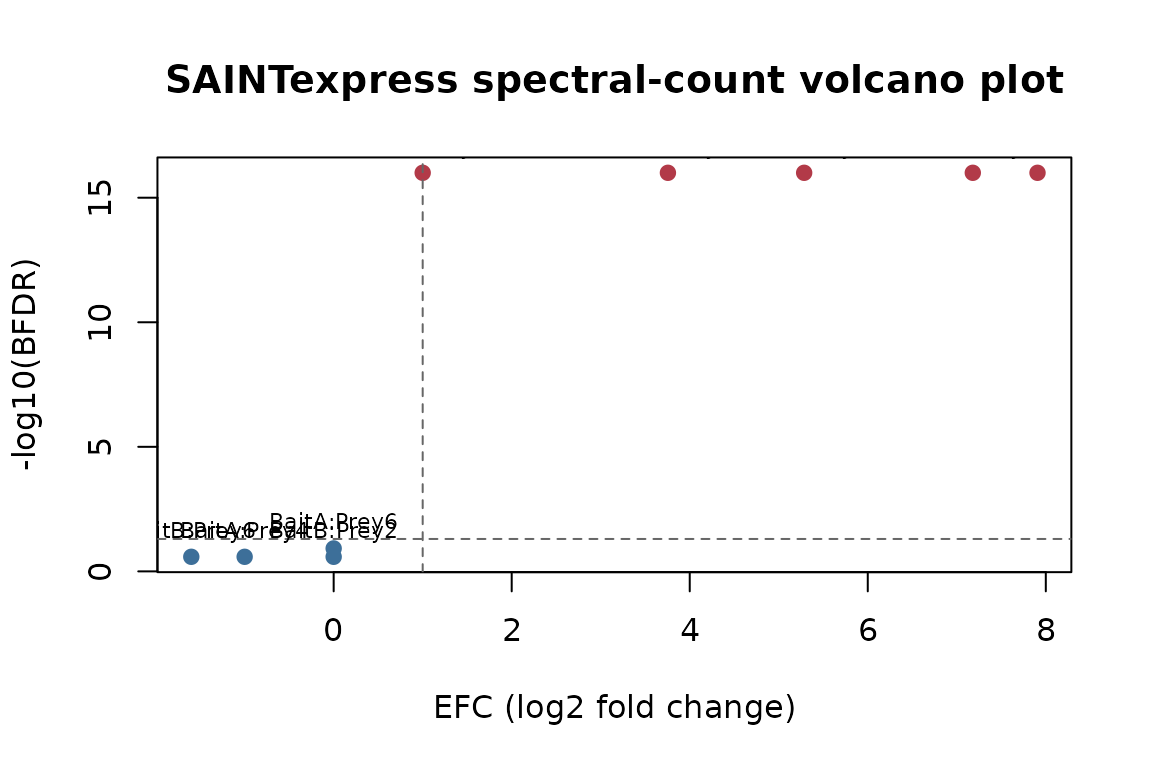
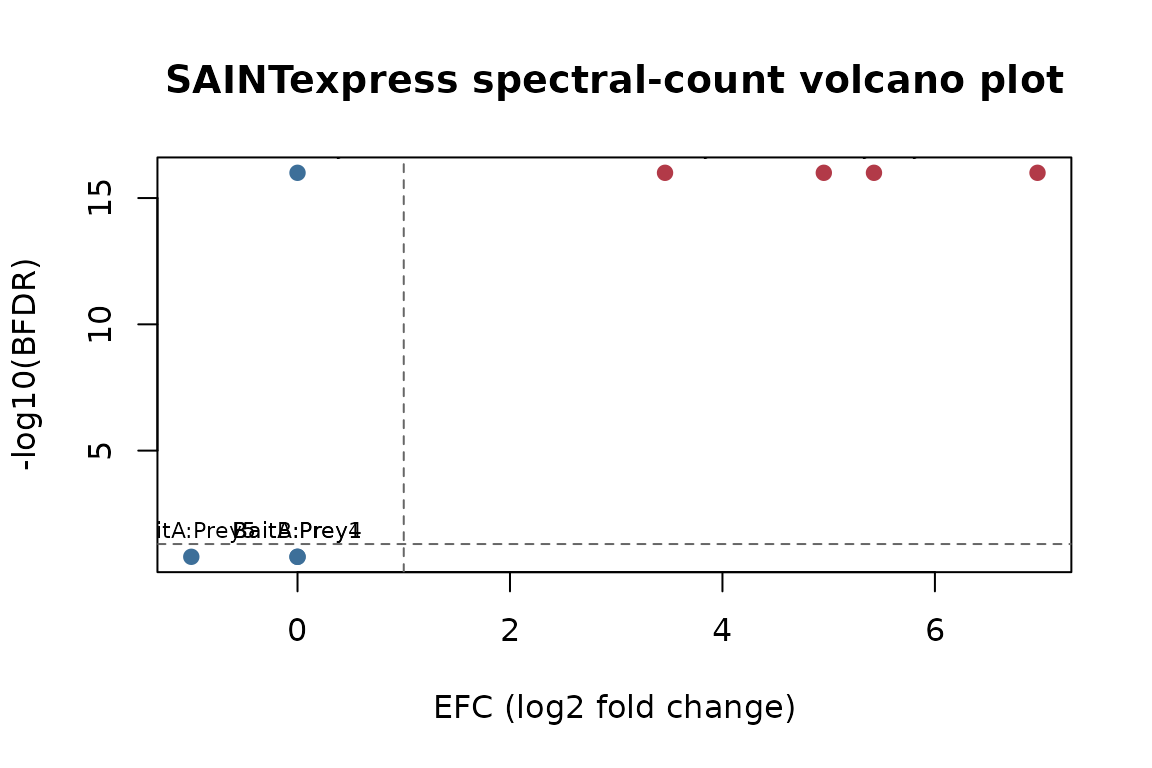
Built site for saintexpress@0.0.1: efdd016

diff --git a/articles/saintexpress.html b/articles/saintexpress.html
@@ -79,32 +79,27 @@ remaining preys are background.</p>
 <span>  <span class="va">ips</span>    <span class="op">&lt;-</span> <span class="fu"><a href="https://rdrr.io/r/base/paste.html" class="external-link">paste0</a></span><span class="op">(</span><span class="st">"IP"</span>, <span class="fu"><a href="https://rdrr.io/r/base/seq.html" class="external-link">seq_along</a></span><span class="op">(</span><span class="va">baits</span><span class="op">)</span><span class="op">)</span></span>
 <span>  <span class="va">cort</span>   <span class="op">&lt;-</span> <span class="fu"><a href="https://rdrr.io/r/base/c.html" class="external-link">c</a></span><span class="op">(</span><span class="st">"T"</span>, <span class="st">"T"</span>, <span class="st">"T"</span>, <span class="st">"T"</span>, <span class="st">"C"</span>, <span class="st">"C"</span><span class="op">)</span></span>
 <span></span>
-<span>  <span class="va">draw</span> <span class="op">&lt;-</span> <span class="kw">function</span><span class="op">(</span><span class="va">bait</span>, <span class="va">prey</span><span class="op">)</span> <span class="op">{</span></span>
-<span>    <span class="kw">if</span> <span class="op">(</span><span class="va">bait</span> <span class="op"><a href="https://rdrr.io/r/base/match.html" class="external-link">%in%</a></span> <span class="fu"><a href="https://rdrr.io/r/base/c.html" class="external-link">c</a></span><span class="op">(</span><span class="st">"Ctrl1"</span>, <span class="st">"Ctrl2"</span><span class="op">)</span><span class="op">)</span> <span class="op">{</span></span>
-<span>      <span class="kw">if</span> <span class="op">(</span><span class="va">mode</span> <span class="op">==</span> <span class="st">"spc"</span><span class="op">)</span> <span class="fu">stats</span><span class="fu">::</span><span class="fu"><a href="https://rdrr.io/r/stats/Poisson.html" class="external-link">rpois</a></span><span class="op">(</span><span class="fl">1</span>, <span class="fl">0.5</span><span class="op">)</span> <span class="kw">else</span> <span class="fu">stats</span><span class="fu">::</span><span class="fu"><a href="https://rdrr.io/r/stats/Exponential.html" class="external-link">rexp</a></span><span class="op">(</span><span class="fl">1</span>, <span class="fl">1</span> <span class="op">/</span> <span class="fl">1e4</span><span class="op">)</span></span>
-<span>    <span class="op">}</span> <span class="kw">else</span> <span class="kw">if</span> <span class="op">(</span><span class="va">bait</span> <span class="op">==</span> <span class="st">"BaitA"</span> <span class="op">&amp;&amp;</span> <span class="va">prey</span> <span class="op"><a href="https://rdrr.io/r/base/match.html" class="external-link">%in%</a></span> <span class="fu"><a href="https://rdrr.io/r/base/c.html" class="external-link">c</a></span><span class="op">(</span><span class="st">"Prey1"</span>, <span class="st">"Prey2"</span><span class="op">)</span><span class="op">)</span> <span class="op">{</span></span>
-<span>      <span class="kw">if</span> <span class="op">(</span><span class="va">mode</span> <span class="op">==</span> <span class="st">"spc"</span><span class="op">)</span> <span class="fu">stats</span><span class="fu">::</span><span class="fu"><a href="https://rdrr.io/r/stats/Poisson.html" class="external-link">rpois</a></span><span class="op">(</span><span class="fl">1</span>, <span class="fl">20</span><span class="op">)</span> <span class="kw">else</span> <span class="fu">stats</span><span class="fu">::</span><span class="fu"><a href="https://rdrr.io/r/stats/Exponential.html" class="external-link">rexp</a></span><span class="op">(</span><span class="fl">1</span>, <span class="fl">1</span> <span class="op">/</span> <span class="fl">1e7</span><span class="op">)</span></span>
-<span>    <span class="op">}</span> <span class="kw">else</span> <span class="kw">if</span> <span class="op">(</span><span class="va">bait</span> <span class="op">==</span> <span class="st">"BaitB"</span> <span class="op">&amp;&amp;</span> <span class="va">prey</span> <span class="op"><a href="https://rdrr.io/r/base/match.html" class="external-link">%in%</a></span> <span class="fu"><a href="https://rdrr.io/r/base/c.html" class="external-link">c</a></span><span class="op">(</span><span class="st">"Prey3"</span>, <span class="st">"Prey4"</span><span class="op">)</span><span class="op">)</span> <span class="op">{</span></span>
-<span>      <span class="kw">if</span> <span class="op">(</span><span class="va">mode</span> <span class="op">==</span> <span class="st">"spc"</span><span class="op">)</span> <span class="fu">stats</span><span class="fu">::</span><span class="fu"><a href="https://rdrr.io/r/stats/Poisson.html" class="external-link">rpois</a></span><span class="op">(</span><span class="fl">1</span>, <span class="fl">15</span><span class="op">)</span> <span class="kw">else</span> <span class="fu">stats</span><span class="fu">::</span><span class="fu"><a href="https://rdrr.io/r/stats/Exponential.html" class="external-link">rexp</a></span><span class="op">(</span><span class="fl">1</span>, <span class="fl">1</span> <span class="op">/</span> <span class="fl">5e6</span><span class="op">)</span></span>
-<span>    <span class="op">}</span> <span class="kw">else</span> <span class="op">{</span></span>
-<span>      <span class="kw">if</span> <span class="op">(</span><span class="va">mode</span> <span class="op">==</span> <span class="st">"spc"</span><span class="op">)</span> <span class="fu">stats</span><span class="fu">::</span><span class="fu"><a href="https://rdrr.io/r/stats/Poisson.html" class="external-link">rpois</a></span><span class="op">(</span><span class="fl">1</span>, <span class="fl">0.5</span><span class="op">)</span> <span class="kw">else</span> <span class="fu">stats</span><span class="fu">::</span><span class="fu"><a href="https://rdrr.io/r/stats/Exponential.html" class="external-link">rexp</a></span><span class="op">(</span><span class="fl">1</span>, <span class="fl">1</span> <span class="op">/</span> <span class="fl">1e4</span><span class="op">)</span></span>
-<span>    <span class="op">}</span></span>
+<span>  <span class="co"># One row per IP x prey; recover the bait for each IP.</span></span>
+<span>  <span class="va">grid</span> <span class="op">&lt;-</span> <span class="fu"><a href="https://rdrr.io/r/base/expand.grid.html" class="external-link">expand.grid</a></span><span class="op">(</span>ipId <span class="op">=</span> <span class="va">ips</span>, preyId <span class="op">=</span> <span class="va">preys</span>, stringsAsFactors <span class="op">=</span> <span class="cn">FALSE</span><span class="op">)</span></span>
+<span>  <span class="va">grid</span><span class="op">$</span><span class="va">baitId</span> <span class="op">&lt;-</span> <span class="va">baits</span><span class="op">[</span><span class="fu"><a href="https://rdrr.io/r/base/match.html" class="external-link">match</a></span><span class="op">(</span><span class="va">grid</span><span class="op">$</span><span class="va">ipId</span>, <span class="va">ips</span><span class="op">)</span><span class="op">]</span></span>
+<span></span>
+<span>  <span class="co"># A prey is enriched ("signal") only for its true bait; everything else is background.</span></span>
+<span>  <span class="va">signal</span> <span class="op">&lt;-</span> <span class="op">(</span><span class="va">grid</span><span class="op">$</span><span class="va">baitId</span> <span class="op">==</span> <span class="st">"BaitA"</span> <span class="op">&amp;</span> <span class="va">grid</span><span class="op">$</span><span class="va">preyId</span> <span class="op"><a href="https://rdrr.io/r/base/match.html" class="external-link">%in%</a></span> <span class="fu"><a href="https://rdrr.io/r/base/c.html" class="external-link">c</a></span><span class="op">(</span><span class="st">"Prey1"</span>, <span class="st">"Prey2"</span><span class="op">)</span><span class="op">)</span> <span class="op">|</span></span>
+<span>            <span class="op">(</span><span class="va">grid</span><span class="op">$</span><span class="va">baitId</span> <span class="op">==</span> <span class="st">"BaitB"</span> <span class="op">&amp;</span> <span class="va">grid</span><span class="op">$</span><span class="va">preyId</span> <span class="op"><a href="https://rdrr.io/r/base/match.html" class="external-link">%in%</a></span> <span class="fu"><a href="https://rdrr.io/r/base/c.html" class="external-link">c</a></span><span class="op">(</span><span class="st">"Prey3"</span>, <span class="st">"Prey4"</span><span class="op">)</span><span class="op">)</span></span>
+<span></span>
+<span>  <span class="co"># Draw every quantity in one vectorized call.</span></span>
+<span>  <span class="kw">if</span> <span class="op">(</span><span class="va">mode</span> <span class="op">==</span> <span class="st">"spc"</span><span class="op">)</span> <span class="op">{</span></span>
+<span>    <span class="va">lambda</span> <span class="op">&lt;-</span> <span class="fu"><a href="https://rdrr.io/r/base/ifelse.html" class="external-link">ifelse</a></span><span class="op">(</span><span class="va">signal</span>, <span class="fu"><a href="https://rdrr.io/r/base/ifelse.html" class="external-link">ifelse</a></span><span class="op">(</span><span class="va">grid</span><span class="op">$</span><span class="va">baitId</span> <span class="op">==</span> <span class="st">"BaitA"</span>, <span class="fl">20</span>, <span class="fl">15</span><span class="op">)</span>, <span class="fl">0.5</span><span class="op">)</span></span>
+<span>    <span class="va">grid</span><span class="op">$</span><span class="va">quant</span> <span class="op">&lt;-</span> <span class="fu">stats</span><span class="fu">::</span><span class="fu"><a href="https://rdrr.io/r/stats/Poisson.html" class="external-link">rpois</a></span><span class="op">(</span><span class="fu"><a href="https://rdrr.io/r/base/nrow.html" class="external-link">nrow</a></span><span class="op">(</span><span class="va">grid</span><span class="op">)</span>, <span class="va">lambda</span><span class="op">)</span></span>
+<span>  <span class="op">}</span> <span class="kw">else</span> <span class="op">{</span></span>
+<span>    <span class="va">mu</span> <span class="op">&lt;-</span> <span class="fu"><a href="https://rdrr.io/r/base/ifelse.html" class="external-link">ifelse</a></span><span class="op">(</span><span class="va">signal</span>, <span class="fu"><a href="https://rdrr.io/r/base/ifelse.html" class="external-link">ifelse</a></span><span class="op">(</span><span class="va">grid</span><span class="op">$</span><span class="va">baitId</span> <span class="op">==</span> <span class="st">"BaitA"</span>, <span class="fl">1e7</span>, <span class="fl">5e6</span><span class="op">)</span>, <span class="fl">1e4</span><span class="op">)</span></span>
+<span>    <span class="va">grid</span><span class="op">$</span><span class="va">quant</span> <span class="op">&lt;-</span> <span class="fu">stats</span><span class="fu">::</span><span class="fu"><a href="https://rdrr.io/r/stats/Exponential.html" class="external-link">rexp</a></span><span class="op">(</span><span class="fu"><a href="https://rdrr.io/r/base/nrow.html" class="external-link">nrow</a></span><span class="op">(</span><span class="va">grid</span><span class="op">)</span>, <span class="fl">1</span> <span class="op">/</span> <span class="va">mu</span><span class="op">)</span></span>
 <span>  <span class="op">}</span></span>
 <span></span>
-<span>  <span class="va">rows</span> <span class="op">&lt;-</span> <span class="fu"><a href="https://rdrr.io/r/base/list.html" class="external-link">list</a></span><span class="op">(</span><span class="op">)</span></span>
-<span>  <span class="kw">for</span> <span class="op">(</span><span class="va">i</span> <span class="kw">in</span> <span class="fu"><a href="https://rdrr.io/r/base/seq.html" class="external-link">seq_along</a></span><span class="op">(</span><span class="va">baits</span><span class="op">)</span><span class="op">)</span> <span class="op">{</span></span>
-<span>    <span class="kw">for</span> <span class="op">(</span><span class="va">p</span> <span class="kw">in</span> <span class="va">preys</span><span class="op">)</span> <span class="op">{</span></span>
-<span>      <span class="va">q</span> <span class="op">&lt;-</span> <span class="fu">draw</span><span class="op">(</span><span class="va">baits</span><span class="op">[</span><span class="va">i</span><span class="op">]</span>, <span class="va">p</span><span class="op">)</span></span>
-<span>      <span class="kw">if</span> <span class="op">(</span><span class="va">q</span> <span class="op">&gt;</span> <span class="fl">0</span><span class="op">)</span> <span class="op">{</span></span>
-<span>        <span class="va">rows</span><span class="op">[[</span><span class="fu"><a href="https://rdrr.io/r/base/length.html" class="external-link">length</a></span><span class="op">(</span><span class="va">rows</span><span class="op">)</span> <span class="op">+</span> <span class="fl">1</span><span class="op">]</span><span class="op">]</span> <span class="op">&lt;-</span> <span class="fu"><a href="https://rdrr.io/r/base/data.frame.html" class="external-link">data.frame</a></span><span class="op">(</span></span>
-<span>          ipId <span class="op">=</span> <span class="va">ips</span><span class="op">[</span><span class="va">i</span><span class="op">]</span>, baitId <span class="op">=</span> <span class="va">baits</span><span class="op">[</span><span class="va">i</span><span class="op">]</span>, preyId <span class="op">=</span> <span class="va">p</span>, quant <span class="op">=</span> <span class="va">q</span>,</span>
-<span>          stringsAsFactors <span class="op">=</span> <span class="cn">FALSE</span></span>
-<span>        <span class="op">)</span></span>
-<span>      <span class="op">}</span></span>
-<span>    <span class="op">}</span></span>
-<span>  <span class="op">}</span></span>
+<span>  <span class="va">inter</span> <span class="op">&lt;-</span> <span class="va">grid</span><span class="op">[</span><span class="va">grid</span><span class="op">$</span><span class="va">quant</span> <span class="op">&gt;</span> <span class="fl">0</span>, <span class="fu"><a href="https://rdrr.io/r/base/c.html" class="external-link">c</a></span><span class="op">(</span><span class="st">"ipId"</span>, <span class="st">"baitId"</span>, <span class="st">"preyId"</span>, <span class="st">"quant"</span><span class="op">)</span><span class="op">]</span></span>
+<span>  <span class="fu"><a href="https://rdrr.io/r/base/colnames.html" class="external-link">rownames</a></span><span class="op">(</span><span class="va">inter</span><span class="op">)</span> <span class="op">&lt;-</span> <span class="cn">NULL</span></span>
 <span>  <span class="fu"><a href="https://rdrr.io/r/base/list.html" class="external-link">list</a></span><span class="op">(</span></span>
-<span>    inter <span class="op">=</span> <span class="fu"><a href="https://rdrr.io/r/base/do.call.html" class="external-link">do.call</a></span><span class="op">(</span><span class="va">rbind</span>, <span class="va">rows</span><span class="op">)</span>,</span>
+<span>    inter <span class="op">=</span> <span class="va">inter</span>,</span>
 <span>    prey  <span class="op">=</span> <span class="fu"><a href="https://rdrr.io/r/base/data.frame.html" class="external-link">data.frame</a></span><span class="op">(</span>preyId <span class="op">=</span> <span class="va">preys</span>, preyLength <span class="op">=</span> <span class="fl">500L</span>, preyGeneId <span class="op">=</span> <span class="va">preys</span>,</span>
 <span>                       stringsAsFactors <span class="op">=</span> <span class="cn">FALSE</span><span class="op">)</span>,</span>
 <span>    bait  <span class="op">=</span> <span class="fu"><a href="https://rdrr.io/r/base/data.frame.html" class="external-link">data.frame</a></span><span class="op">(</span>ipId <span class="op">=</span> <span class="va">ips</span>, baitId <span class="op">=</span> <span class="va">baits</span>, CorT <span class="op">=</span> <span class="va">cort</span>,</span>
@@ -116,9 +111,9 @@ remaining preys are background.</p>
 <span><span class="fu"><a href="https://rdrr.io/r/utils/str.html" class="external-link">str</a></span><span class="op">(</span><span class="va">si_spc</span>, max.level <span class="op">=</span> <span class="fl">2</span><span class="op">)</span></span>
 <span><span class="co">#&gt; List of 3</span></span>
 <span><span class="co">#&gt;  $ inter:'data.frame':   19 obs. of  4 variables:</span></span>
-<span><span class="co">#&gt;   ..$ ipId  : chr [1:19] "IP1" "IP1" "IP1" "IP1" ...</span></span>
-<span><span class="co">#&gt;   ..$ baitId: chr [1:19] "BaitA" "BaitA" "BaitA" "BaitA" ...</span></span>
-<span><span class="co">#&gt;   ..$ preyId: chr [1:19] "Prey1" "Prey2" "Prey4" "Prey6" ...</span></span>
+<span><span class="co">#&gt;   ..$ ipId  : chr [1:19] "IP1" "IP2" "IP4" "IP6" ...</span></span>
+<span><span class="co">#&gt;   ..$ baitId: chr [1:19] "BaitA" "BaitA" "BaitB" "Ctrl2" ...</span></span>
+<span><span class="co">#&gt;   ..$ preyId: chr [1:19] "Prey1" "Prey1" "Prey1" "Prey1" ...</span></span>
 <span><span class="co">#&gt;   ..$ quant : int [1:19] 26 17 1 1 22 22 2 2 15 10 ...</span></span>
 <span><span class="co">#&gt;  $ prey :'data.frame':   6 obs. of  3 variables:</span></span>
 <span><span class="co">#&gt;   ..$ preyId    : chr [1:6] "Prey1" "Prey2" "Prey3" "Prey4" ...</span></span>
@@ -143,14 +138,13 @@ remaining preys are background.</p>
 <span><span class="va">scores_spc</span><span class="op">[</span>, <span class="fu"><a href="https://rdrr.io/r/base/c.html" class="external-link">c</a></span><span class="op">(</span><span class="st">"Bait"</span>, <span class="st">"Prey"</span>, <span class="st">"AvgP"</span>, <span class="st">"BFDR"</span>, <span class="st">"SaintScore"</span><span class="op">)</span><span class="op">]</span></span>
 <span><span class="co">#&gt;    Bait  Prey AvgP BFDR SaintScore</span></span>
 <span><span class="co">#&gt; 1 BaitA Prey1 1.00 0.00       1.00</span></span>
-<span><span class="co">#&gt; 2 BaitA Prey2 1.00 0.00       1.00</span></span>
-<span><span class="co">#&gt; 3 BaitA Prey4 0.00 0.26       0.00</span></span>
-<span><span class="co">#&gt; 4 BaitA Prey6 0.05 0.12       0.05</span></span>
-<span><span class="co">#&gt; 5 BaitA Prey5 0.38 0.00       0.38</span></span>
-<span><span class="co">#&gt; 6 BaitB Prey3 1.00 0.00       1.00</span></span>
-<span><span class="co">#&gt; 7 BaitB Prey4 1.00 0.00       1.00</span></span>
-<span><span class="co">#&gt; 8 BaitB Prey2 0.00 0.26       0.00</span></span>
-<span><span class="co">#&gt; 9 BaitB Prey6 0.00 0.26       0.00</span></span></code></pre></div>
+<span><span class="co">#&gt; 2 BaitB Prey1 0.00 0.16       0.00</span></span>
+<span><span class="co">#&gt; 3 BaitA Prey2 1.00 0.00       1.00</span></span>
+<span><span class="co">#&gt; 4 BaitB Prey3 1.00 0.00       1.00</span></span>
+<span><span class="co">#&gt; 5 BaitA Prey4 0.00 0.16       0.00</span></span>
+<span><span class="co">#&gt; 6 BaitB Prey4 1.00 0.00       1.00</span></span>
+<span><span class="co">#&gt; 7 BaitA Prey5 0.00 0.16       0.00</span></span>
+<span><span class="co">#&gt; 8 BaitB Prey6 0.22 0.00       0.22</span></span></code></pre></div>
 <p>The true interactors (<code>Prey1</code>/<code>Prey2</code> for
 <code>BaitA</code>, <code>Prey3</code>/<code>Prey4</code> for
 <code>BaitB</code>) should land at the top of each bait by
@@ -163,9 +157,9 @@ remaining preys are background.</p>
 <span><span class="fu">top_per_bait</span><span class="op">(</span><span class="va">scores_spc</span><span class="op">)</span><span class="op">[</span>, <span class="fu"><a href="https://rdrr.io/r/base/c.html" class="external-link">c</a></span><span class="op">(</span><span class="st">"Bait"</span>, <span class="st">"Prey"</span>, <span class="st">"AvgP"</span>, <span class="st">"BFDR"</span><span class="op">)</span><span class="op">]</span></span>
 <span><span class="co">#&gt;          Bait  Prey AvgP BFDR</span></span>
 <span><span class="co">#&gt; BaitA.1 BaitA Prey1    1    0</span></span>
-<span><span class="co">#&gt; BaitA.2 BaitA Prey2    1    0</span></span>
-<span><span class="co">#&gt; BaitB.6 BaitB Prey3    1    0</span></span>
-<span><span class="co">#&gt; BaitB.7 BaitB Prey4    1    0</span></span></code></pre></div>
+<span><span class="co">#&gt; BaitA.3 BaitA Prey2    1    0</span></span>
+<span><span class="co">#&gt; BaitB.4 BaitB Prey3    1    0</span></span>
+<span><span class="co">#&gt; BaitB.6 BaitB Prey4    1    0</span></span></code></pre></div>
 </div>
 <div class="section level2">
 <h2 id="volcano-plot">Volcano plot<a class="anchor" aria-label="anchor" href="#volcano-plot"></a>
@@ -213,11 +207,11 @@ continuous abundances.</p>
 <code class="sourceCode R"><span><span class="va">si_int</span> <span class="op">&lt;-</span> <span class="fu">simulate_si</span><span class="op">(</span>mode <span class="op">=</span> <span class="st">"int"</span><span class="op">)</span></span>
 <span><span class="va">scores_int</span> <span class="op">&lt;-</span> <span class="fu">saintexpress</span><span class="fu">::</span><span class="fu"><a href="../reference/run_saint.html">run_saint</a></span><span class="op">(</span><span class="va">si_int</span>, mode <span class="op">=</span> <span class="st">"int"</span>, optimizer <span class="op">=</span> <span class="st">"base"</span><span class="op">)</span></span>
 <span><span class="fu">top_per_bait</span><span class="op">(</span><span class="va">scores_int</span><span class="op">)</span><span class="op">[</span>, <span class="fu"><a href="https://rdrr.io/r/base/c.html" class="external-link">c</a></span><span class="op">(</span><span class="st">"Bait"</span>, <span class="st">"Prey"</span>, <span class="st">"AvgP"</span>, <span class="st">"BFDR"</span><span class="op">)</span><span class="op">]</span></span>
-<span><span class="co">#&gt;           Bait  Prey AvgP BFDR</span></span>
-<span><span class="co">#&gt; BaitA.1  BaitA Prey1    1    0</span></span>
-<span><span class="co">#&gt; BaitA.2  BaitA Prey2    1    0</span></span>
-<span><span class="co">#&gt; BaitB.9  BaitB Prey3    1    0</span></span>
-<span><span class="co">#&gt; BaitB.10 BaitB Prey4    1    0</span></span></code></pre></div>
+<span><span class="co">#&gt;          Bait  Prey AvgP BFDR</span></span>
+<span><span class="co">#&gt; BaitA.1 BaitA Prey1    1    0</span></span>
+<span><span class="co">#&gt; BaitA.3 BaitA Prey2    1    0</span></span>
+<span><span class="co">#&gt; BaitB.6 BaitB Prey3    1    0</span></span>
+<span><span class="co">#&gt; BaitB.8 BaitB Prey4    1    0</span></span></code></pre></div>
 <div class="sourceCode" id="cb7"><pre class="downlit sourceCode r">
 <code class="sourceCode R"><span><span class="fu">plot_volcano</span><span class="op">(</span><span class="va">scores_int</span>, <span class="st">"SAINTexpress intensity volcano plot"</span><span class="op">)</span></span></code></pre></div>
 <p><img src="saintexpress_files/figure-html/volcano-int-1.png" class="r-plt" alt="" width="576"></p>
@@ -269,7 +263,7 @@ input, see the companion package <a href="https://github.com/prolfqua/saintexpre
 
 
     <footer><div class="pkgdown-footer-left">
-  <p>Developed by Witold Wolski.</p>
+  <p>Developed by Witold Wolski, Christian Panse.</p>
 </div>
 
 <div class="pkgdown-footer-right">

diff --git a/authors.html b/authors.html
@@ -35,7 +35,11 @@
       <h2>Authors</h2>
 
       <ul class="list-unstyled"><li>
-          <p><strong>Witold Wolski</strong>. Author, maintainer. <a href="https://orcid.org/0000-0002-6468-120X" target="orcid.widget" aria-label="ORCID" class="external-link"><span class="fab fa-orcid orcid" aria-hidden="true"></span></a>
+          <p><strong>Witold Wolski</strong>. Author. <a href="https://orcid.org/0000-0002-6468-120X" target="orcid.widget" aria-label="ORCID" class="external-link"><span class="fab fa-orcid orcid" aria-hidden="true"></span></a>
+          </p>
+        </li>
+        <li>
+          <p><strong>Christian Panse</strong>. Maintainer. <a href="https://orcid.org/0000-0003-1975-3064" target="orcid.widget" aria-label="ORCID" class="external-link"><span class="fab fa-orcid orcid" aria-hidden="true"></span></a>
           </p>
         </li>
       </ul></div>
@@ -44,13 +48,13 @@
       <h2 id="citation">Citation</h2>
       <p><small class="dont-index">Source: <a href="https://github.com/prolfqua/saintexpress/blob/main/inst/CITATION" class="external-link"><code>inst/CITATION</code></a></small></p>
 
-      <p>Wolski W (2026).
+      <p>Wolski W, Panse C (2026).
 <em>saintexpress: Pure R Implementation of SAINTexpress</em>.
 R package version 0.0.1.
 </p>
       <pre>@Manual{,
   title = {saintexpress: Pure R Implementation of SAINTexpress},
-  author = {Witold Wolski},
+  author = {Witold Wolski and Christian Panse},
   year = {2026},
   note = {R package version 0.0.1},
 }</pre>
@@ -71,7 +75,7 @@ R package version 0.0.1.
 
 
     <footer><div class="pkgdown-footer-left">
-  <p>Developed by Witold Wolski.</p>
+  <p>Developed by Witold Wolski, Christian Panse.</p>
 </div>
 
 <div class="pkgdown-footer-right">

diff --git a/index.html b/index.html
@@ -11,8 +11,8 @@
 <script src="deps/bootstrap-5.3.8/bootstrap.bundle.min.js"></script><link href="deps/font-awesome-6.5.2/css/all.min.css" rel="stylesheet">
 <link href="deps/font-awesome-6.5.2/css/v4-shims.min.css" rel="stylesheet">
 <script src="deps/headroom-0.11.0/headroom.min.js"></script><script src="deps/headroom-0.11.0/jQuery.headroom.min.js"></script><script src="deps/bootstrap-toc-1.0.1/bootstrap-toc.min.js"></script><script src="deps/clipboard.js-2.0.11/clipboard.min.js"></script><script src="deps/search-1.0.0/autocomplete.jquery.min.js"></script><script src="deps/search-1.0.0/fuse.min.js"></script><script src="deps/search-1.0.0/mark.min.js"></script><!-- pkgdown --><script src="pkgdown.js"></script><meta property="og:title" content="Pure R Implementation of SAINTexpress">
-<meta name="description" content="Pure R implementation of SAINTexpress scoring (spectral counts and intensities) plus SAINT input table validation.">
-<meta property="og:description" content="Pure R implementation of SAINTexpress scoring (spectral counts and intensities) plus SAINT input table validation.">
+<meta name="description" content="A pure R implementation of the SAINTexpress scoring engines for affinity purification-mass spectrometry data, covering both the spectral-count and intensity models, together with validation of SAINT input tables. The output mirrors the native SAINTexpress list.txt format, so protein-protein interactions can be scored without external binaries. The underlying method is described in Teo et al. (2014) &lt;doi:10.1016/j.jprot.2013.10.023&gt;.">
+<meta property="og:description" content="A pure R implementation of the SAINTexpress scoring engines for affinity purification-mass spectrometry data, covering both the spectral-count and intensity models, together with validation of SAINT input tables. The output mirrors the native SAINTexpress list.txt format, so protein-protein interactions can be scored without external binaries. The underlying method is described in Teo et al. (2014) &lt;doi:10.1016/j.jprot.2013.10.023&gt;.">
 </head>
 <body>
     <a href="#main" class="visually-hidden-focusable">Skip to contents</a>
@@ -144,7 +144,8 @@
 <div class="developers">
 <h2 data-toc-skip>Developers</h2>
 <ul class="list-unstyled">
-<li>Witold Wolski <br><small class="roles"> Author, maintainer </small> <a href="https://orcid.org/0000-0002-6468-120X" target="orcid.widget" aria-label="ORCID" class="external-link"><span class="fab fa-orcid orcid" aria-hidden="true"></span></a>  </li>
+<li>Witold Wolski <br><small class="roles"> Author </small> <a href="https://orcid.org/0000-0002-6468-120X" target="orcid.widget" aria-label="ORCID" class="external-link"><span class="fab fa-orcid orcid" aria-hidden="true"></span></a>  </li>
+<li>Christian Panse <br><small class="roles"> Maintainer </small> <a href="https://orcid.org/0000-0003-1975-3064" target="orcid.widget" aria-label="ORCID" class="external-link"><span class="fab fa-orcid orcid" aria-hidden="true"></span></a>  </li>
 </ul>
 </div>
 
@@ -155,7 +156,7 @@
 
 
     <footer><div class="pkgdown-footer-left">
-  <p>Developed by Witold Wolski.</p>
+  <p>Developed by Witold Wolski, Christian Panse.</p>
 </div>
 
 <div class="pkgdown-footer-right">

diff --git a/404.html b/404.html
@@ -57,7 +57,7 @@ Content not found. Please use links in the navbar.
 
 
     <footer><div class="pkgdown-footer-left">
-  <p>Developed by Witold Wolski.</p>
+  <p>Developed by Witold Wolski, Christian Panse.</p>
 </div>
 
 <div class="pkgdown-footer-right">

diff --git a/LICENSE-text.html b/LICENSE-text.html
@@ -40,7 +40,7 @@ COPYRIGHT HOLDER: Witold Wolski
 
 
     <footer><div class="pkgdown-footer-left">
-  <p>Developed by Witold Wolski.</p>
+  <p>Developed by Witold Wolski, Christian Panse.</p>
 </div>
 
 <div class="pkgdown-footer-right">

diff --git a/LICENSE.html b/LICENSE.html
@@ -44,7 +44,7 @@
 
 
     <footer><div class="pkgdown-footer-left">
-  <p>Developed by Witold Wolski.</p>
+  <p>Developed by Witold Wolski, Christian Panse.</p>
 </div>
 
 <div class="pkgdown-footer-right">

diff --git a/articles/index.html b/articles/index.html
@@ -42,7 +42,7 @@
 
 
     <footer><div class="pkgdown-footer-left">
-  <p>Developed by Witold Wolski.</p>
+  <p>Developed by Witold Wolski, Christian Panse.</p>
 </div>
 
 <div class="pkgdown-footer-right">

diff --git a/news/index.html b/news/index.html
@@ -40,7 +40,7 @@
 
 
     <footer><div class="pkgdown-footer-left">
-  <p>Developed by Witold Wolski.</p>
+  <p>Developed by Witold Wolski, Christian Panse.</p>
 </div>
 
 <div class="pkgdown-footer-right">

diff --git a/reference/index.html b/reference/index.html
@@ -59,7 +59,7 @@
 
 
     <footer><div class="pkgdown-footer-left">
-  <p>Developed by Witold Wolski.</p>
+  <p>Developed by Witold Wolski, Christian Panse.</p>
 </div>
 
 <div class="pkgdown-footer-right">

diff --git a/reference/run_saint.html b/reference/run_saint.html
@@ -104,7 +104,7 @@
 
 
     <footer><div class="pkgdown-footer-left">
-  <p>Developed by Witold Wolski.</p>
+  <p>Developed by Witold Wolski, Christian Panse.</p>
 </div>
 
 <div class="pkgdown-footer-right">

diff --git a/reference/validate_saint_input.html b/reference/validate_saint_input.html
@@ -73,7 +73,7 @@ and that each is a data frame.</p>
 
 
     <footer><div class="pkgdown-footer-left">
-  <p>Developed by Witold Wolski.</p>
+  <p>Developed by Witold Wolski, Christian Panse.</p>
 </div>
 
 <div class="pkgdown-footer-right">

diff --git a/articles/saintexpress.md b/articles/saintexpress.md
@@ -20,32 +20,27 @@ simulate_si <- function(seed = 42, mode = c("spc", "int")) {
   ips    <- paste0("IP", seq_along(baits))
   cort   <- c("T", "T", "T", "T", "C", "C")
 
-  draw <- function(bait, prey) {
-    if (bait %in% c("Ctrl1", "Ctrl2")) {
-      if (mode == "spc") stats::rpois(1, 0.5) else stats::rexp(1, 1 / 1e4)
-    } else if (bait == "BaitA" && prey %in% c("Prey1", "Prey2")) {
-      if (mode == "spc") stats::rpois(1, 20) else stats::rexp(1, 1 / 1e7)
-    } else if (bait == "BaitB" && prey %in% c("Prey3", "Prey4")) {
-      if (mode == "spc") stats::rpois(1, 15) else stats::rexp(1, 1 / 5e6)
-    } else {
-      if (mode == "spc") stats::rpois(1, 0.5) else stats::rexp(1, 1 / 1e4)
-    }
+  # One row per IP x prey; recover the bait for each IP.
+  grid <- expand.grid(ipId = ips, preyId = preys, stringsAsFactors = FALSE)
+  grid$baitId <- baits[match(grid$ipId, ips)]
+
+  # A prey is enriched ("signal") only for its true bait; everything else is background.
+  signal <- (grid$baitId == "BaitA" & grid$preyId %in% c("Prey1", "Prey2")) |
+            (grid$baitId == "BaitB" & grid$preyId %in% c("Prey3", "Prey4"))
+
+  # Draw every quantity in one vectorized call.
+  if (mode == "spc") {
+    lambda <- ifelse(signal, ifelse(grid$baitId == "BaitA", 20, 15), 0.5)
+    grid$quant <- stats::rpois(nrow(grid), lambda)
+  } else {
+    mu <- ifelse(signal, ifelse(grid$baitId == "BaitA", 1e7, 5e6), 1e4)
+    grid$quant <- stats::rexp(nrow(grid), 1 / mu)
   }
 
-  rows <- list()
-  for (i in seq_along(baits)) {
-    for (p in preys) {
-      q <- draw(baits[i], p)
-      if (q > 0) {
-        rows[[length(rows) + 1]] <- data.frame(
-          ipId = ips[i], baitId = baits[i], preyId = p, quant = q,
-          stringsAsFactors = FALSE
-        )
-      }
-    }
-  }
+  inter <- grid[grid$quant > 0, c("ipId", "baitId", "preyId", "quant")]
+  rownames(inter) <- NULL
   list(
-    inter = do.call(rbind, rows),
+    inter = inter,
     prey  = data.frame(preyId = preys, preyLength = 500L, preyGeneId = preys,
                        stringsAsFactors = FALSE),
     bait  = data.frame(ipId = ips, baitId = baits, CorT = cort,
@@ -57,9 +52,9 @@ si_spc <- simulate_si(mode = "spc")
 str(si_spc, max.level = 2)
 #> List of 3
 #>  $ inter:'data.frame':   19 obs. of  4 variables:
-#>   ..$ ipId  : chr [1:19] "IP1" "IP1" "IP1" "IP1" ...
-#>   ..$ baitId: chr [1:19] "BaitA" "BaitA" "BaitA" "BaitA" ...
-#>   ..$ preyId: chr [1:19] "Prey1" "Prey2" "Prey4" "Prey6" ...
+#>   ..$ ipId  : chr [1:19] "IP1" "IP2" "IP4" "IP6" ...
+#>   ..$ baitId: chr [1:19] "BaitA" "BaitA" "BaitB" "Ctrl2" ...
+#>   ..$ preyId: chr [1:19] "Prey1" "Prey1" "Prey1" "Prey1" ...
 #>   ..$ quant : int [1:19] 26 17 1 1 22 22 2 2 15 10 ...
 #>  $ prey :'data.frame':   6 obs. of  3 variables:
 #>   ..$ preyId    : chr [1:6] "Prey1" "Prey2" "Prey3" "Prey4" ...
@@ -84,14 +79,13 @@ scores_spc <- saintexpress::run_saint(si_spc, mode = "spc", optimizer = "base")
 scores_spc[, c("Bait", "Prey", "AvgP", "BFDR", "SaintScore")]
 #>    Bait  Prey AvgP BFDR SaintScore
 #> 1 BaitA Prey1 1.00 0.00       1.00
-#> 2 BaitA Prey2 1.00 0.00       1.00
-#> 3 BaitA Prey4 0.00 0.26       0.00
-#> 4 BaitA Prey6 0.05 0.12       0.05
-#> 5 BaitA Prey5 0.38 0.00       0.38
-#> 6 BaitB Prey3 1.00 0.00       1.00
-#> 7 BaitB Prey4 1.00 0.00       1.00
-#> 8 BaitB Prey2 0.00 0.26       0.00
-#> 9 BaitB Prey6 0.00 0.26       0.00
+#> 2 BaitB Prey1 0.00 0.16       0.00
+#> 3 BaitA Prey2 1.00 0.00       1.00
+#> 4 BaitB Prey3 1.00 0.00       1.00
+#> 5 BaitA Prey4 0.00 0.16       0.00
+#> 6 BaitB Prey4 1.00 0.00       1.00
+#> 7 BaitA Prey5 0.00 0.16       0.00
+#> 8 BaitB Prey6 0.22 0.00       0.22
 ```
 
 The true interactors (`Prey1`/`Prey2` for `BaitA`, `Prey3`/`Prey4` for
@@ -105,9 +99,9 @@ top_per_bait <- function(df) {
 top_per_bait(scores_spc)[, c("Bait", "Prey", "AvgP", "BFDR")]
 #>          Bait  Prey AvgP BFDR
 #> BaitA.1 BaitA Prey1    1    0
-#> BaitA.2 BaitA Prey2    1    0
-#> BaitB.6 BaitB Prey3    1    0
-#> BaitB.7 BaitB Prey4    1    0
+#> BaitA.3 BaitA Prey2    1    0
+#> BaitB.4 BaitB Prey3    1    0
+#> BaitB.6 BaitB Prey4    1    0
 ```
 
 ## Volcano plot
@@ -156,11 +150,11 @@ The same simulator, with `mode = "int"`, produces continuous abundances.
 si_int <- simulate_si(mode = "int")
 scores_int <- saintexpress::run_saint(si_int, mode = "int", optimizer = "base")
 top_per_bait(scores_int)[, c("Bait", "Prey", "AvgP", "BFDR")]
-#>           Bait  Prey AvgP BFDR
-#> BaitA.1  BaitA Prey1    1    0
-#> BaitA.2  BaitA Prey2    1    0
-#> BaitB.9  BaitB Prey3    1    0
-#> BaitB.10 BaitB Prey4    1    0
+#>          Bait  Prey AvgP BFDR
+#> BaitA.1 BaitA Prey1    1    0
+#> BaitA.3 BaitA Prey2    1    0
+#> BaitB.6 BaitB Prey3    1    0
+#> BaitB.8 BaitB Prey4    1    0
 ```
 
 ``` r